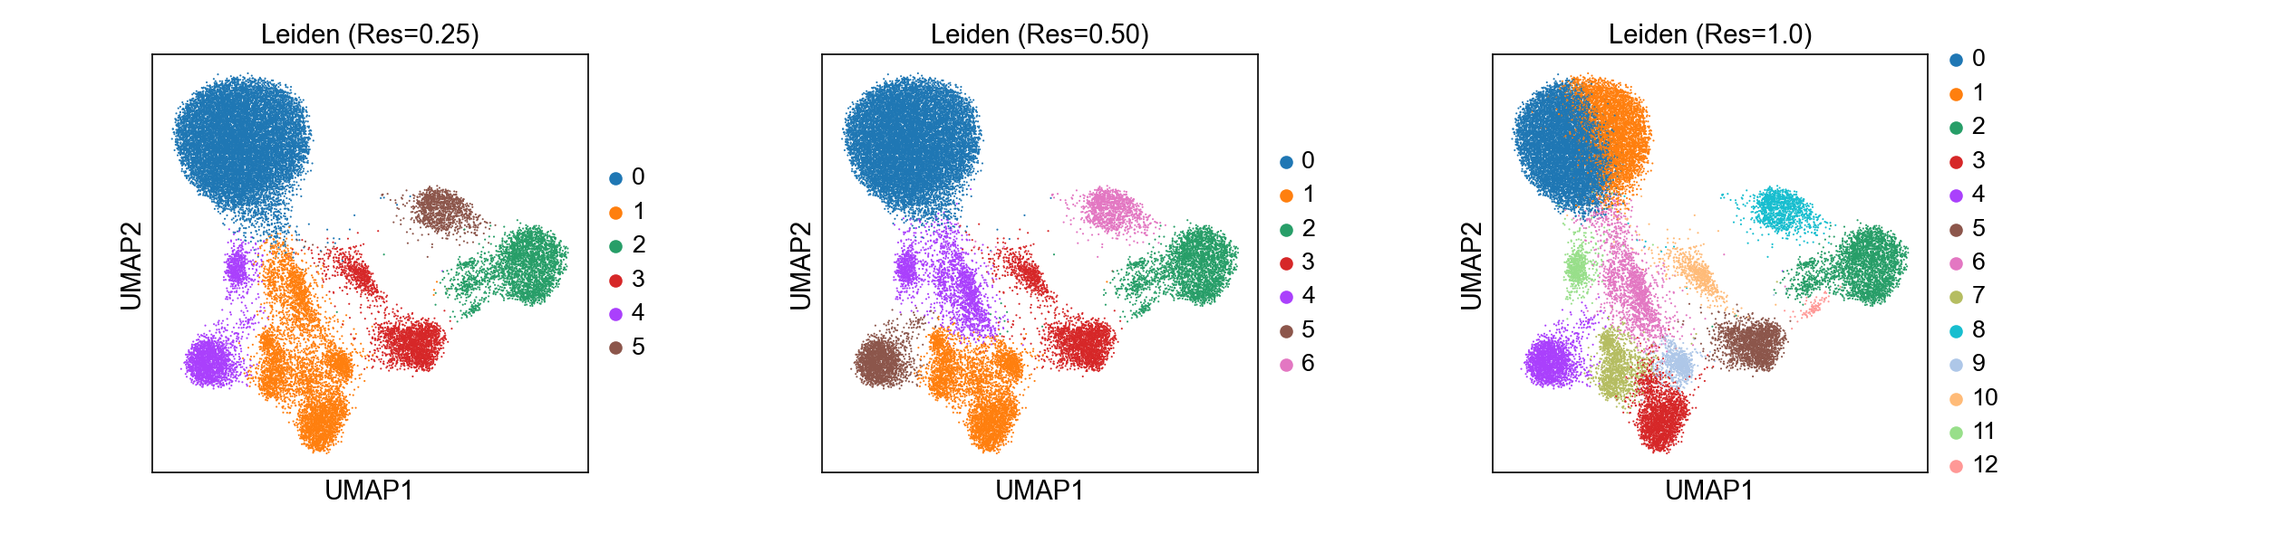
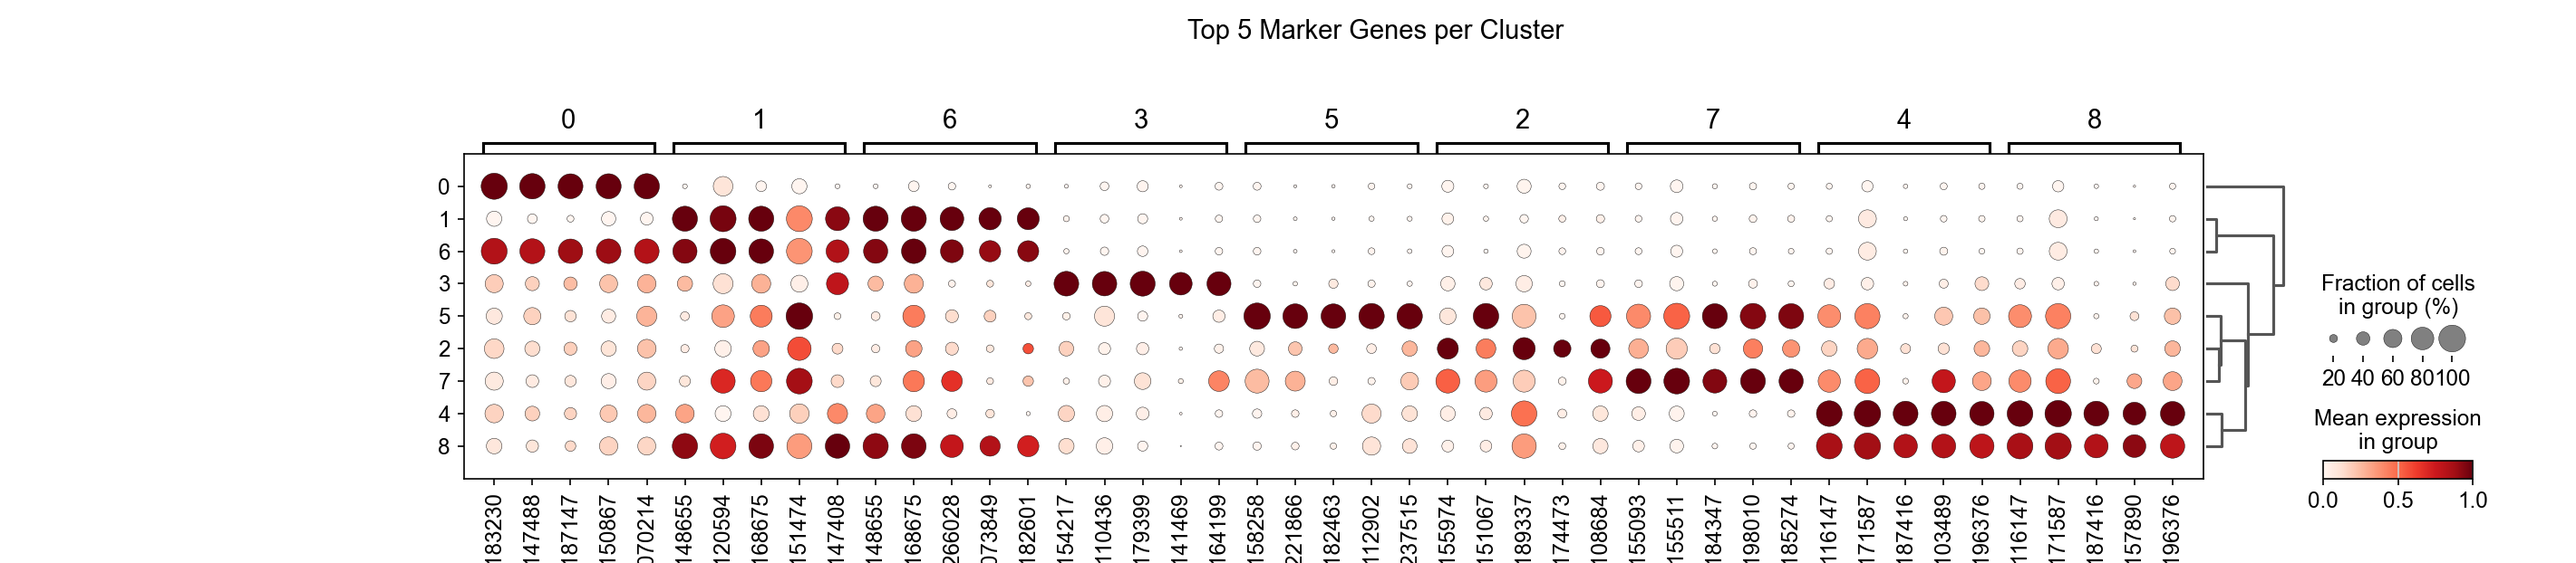
K-means changes with giniclust added, also added the outputs, special cells: 5649 | normal cells: 24254

Changed region(s): [[0.0619, 0.03, 0.9599, 1.0], [0.031, 0.42, 0.0619, 0.57], [0.836, 0.15, 0.867, 0.18]]

diff --git a/pipeline.py b/pipeline.py
@@ -1,10 +1,10 @@
+import giniclust3
 import scanpy as sc
 import pandas as pd
 import matplotlib.pyplot as plt
 import scanpy.external as sce
 import harmonypy as hm
-
-
+from sklearn.cluster import KMeans
 
 sc.settings.verbosity = 3
 sc.settings.set_figure_params(dpi=150, facecolor='white')
@@ -76,6 +76,9 @@ sc.pp.highly_variable_genes(
     flavor="seurat_v3",
     layer="counts",
 )
+
+# Save the full dataset (with all genes) before subsetting, specifically for GiniClust3
+adata_full = adata.copy()
 
 adata = adata[:, adata.var["highly_variable"]].copy()
 
@@ -206,3 +209,85 @@ print(cluster_0_markers.head(10))
 # Note for your assignment report:
 # Once you have these gene lists, you would typically look them up in biological databases
 # (like CellMarker or literature) to say "Cluster 0 is highly expressing CD14, so it is a Monocyte."
+
+
+
+
+## 5. Benchmarking Alternative Algorithms
+import scipy.sparse
+
+# ================================================================================
+# ALGORITHM 1: K-Means (Distance-based clustering)
+# ================================================================================
+print("\nRunning K-Means for algorithm benchmark...")
+
+# We force K-Means to find 9 clusters (since Leiden res=0.50 found 9 clusters)
+kmeans = KMeans(n_clusters=9, random_state=42)
+kmeans.fit(adata.obsm['X_pca_harmony'])
+
+# Save the K-Means results in the adata object
+adata.obs['kmeans'] = kmeans.labels_.astype(str)
+adata.obs['kmeans'] = adata.obs['kmeans'].astype('category')
+
+
+# ================================================================================
+# ALGORITHM 2: GiniClust3 (Rare Cell Type Detection)
+# ================================================================================
+print("\nRunning GiniClust3 for rare cell type detection benchmark...")
+
+from giniclust3 import gini
+import scipy.sparse
+
+# Use 'adata_full' (saved before HVG filtering) so rare genes are not lost
+adata_gini = adata_full.copy()
+adata_gini.X = adata_gini.layers["counts"].copy()
+
+# Unpack sparse matrix to dense array for GiniClust3 to avoid length errors
+if scipy.sparse.issparse(adata_gini.X):
+    adata_gini.X = adata_gini.X.toarray()
+
+print("Calculating Gini Index (This might take a minute)...")
+gini.calGini(adata_gini)
+
+
+print("Clustering based on high Gini genes...")
+adata_gini = gini.clusterGini(adata_gini)
+
+adata.obs['giniclust'] = adata_gini.obs['leiden'].values.astype('category')
+
+# ================================================================================
+# FINAL BENCHMARK PLOT
+# ================================================================================
+
+# --- GiniClust3: label zeldzame cellen ---
+# Tel hoeveel cellen per GiniClust3-cluster
+cluster_sizes = adata.obs['giniclust'].value_counts()
+
+# Clusters met minder dan 50 cellen = zeldzaam
+rare_clusters = cluster_sizes[cluster_sizes < 50].index
+
+# Nieuwe kolom: 'Zeldzaam' of 'Gewoon'
+adata.obs['giniclust_rare'] = adata.obs['giniclust'].apply(
+    lambda x: 'Zeldzaam' if x in rare_clusters else 'Gewoon'
+).astype('category')
+
+print(f"Aantal zeldzame cellen: {(adata.obs['giniclust_rare'] == 'Zeldzaam').sum()}")
+print(f"Aantal gewone cellen:   {(adata.obs['giniclust_rare'] == 'Gewoon').sum()}")
+
+# Plot Leiden en K-Means samen
+sc.pl.umap(
+    adata,
+    color=["leiden_res_0.50", "kmeans"],
+    wspace=0.4,
+    title=["Leiden (Graph)", "K-Means (Distance)"]
+)
+
+# Plot GiniClust3 apart (met eigen kleurenpalet)
+sc.pl.umap(
+    adata,
+    color="giniclust_rare",
+    title="GiniClust3: Zeldzame vs. Gewone cellen",
+    palette={'Zeldzaam': 'red', 'Gewoon': 'lightgrey'}
+)
+
+print("Benchmark complete!")
